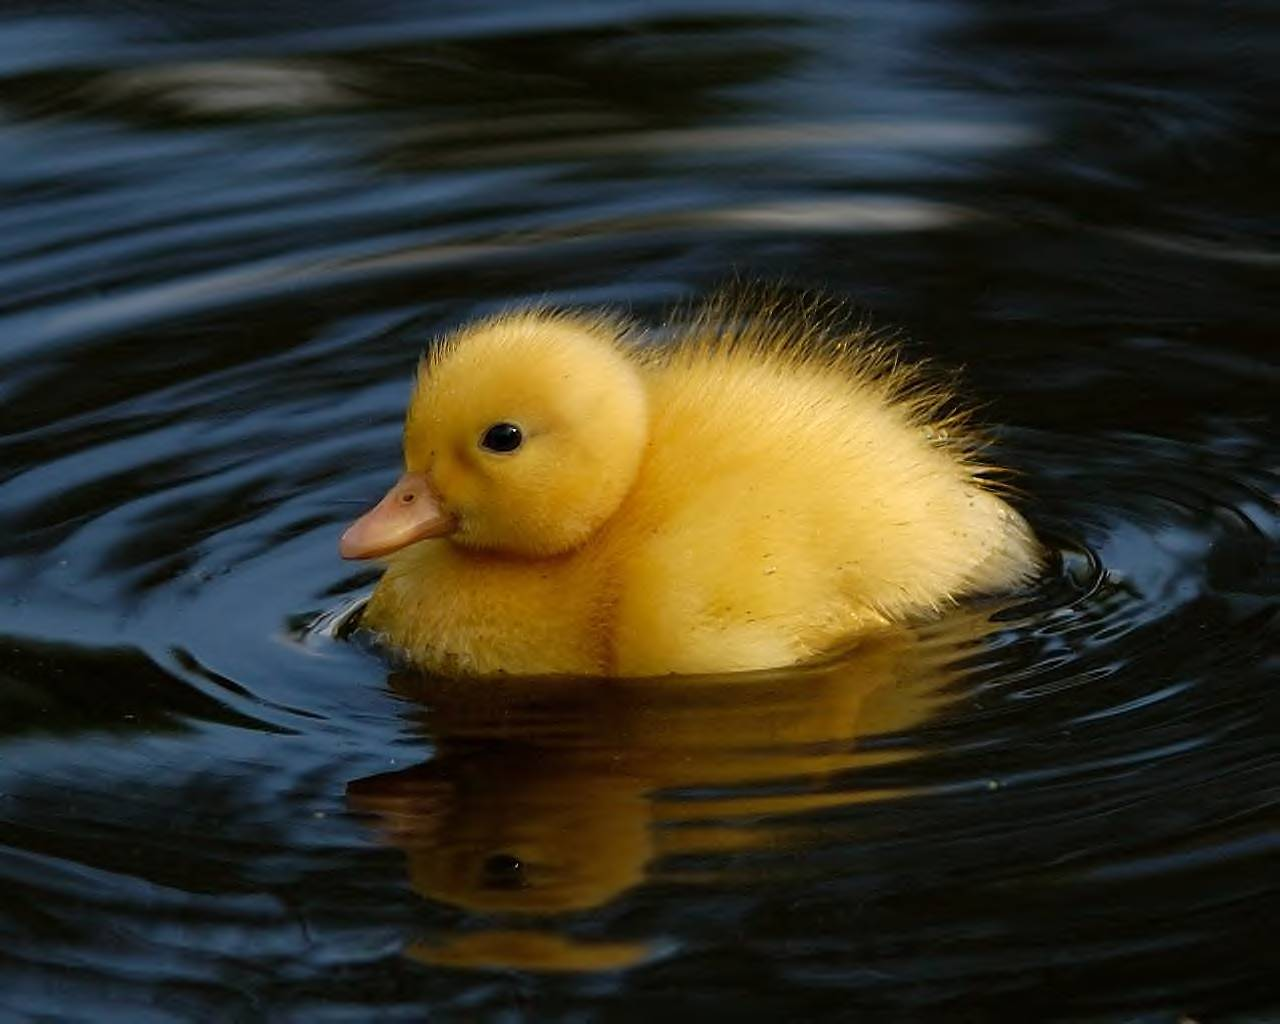
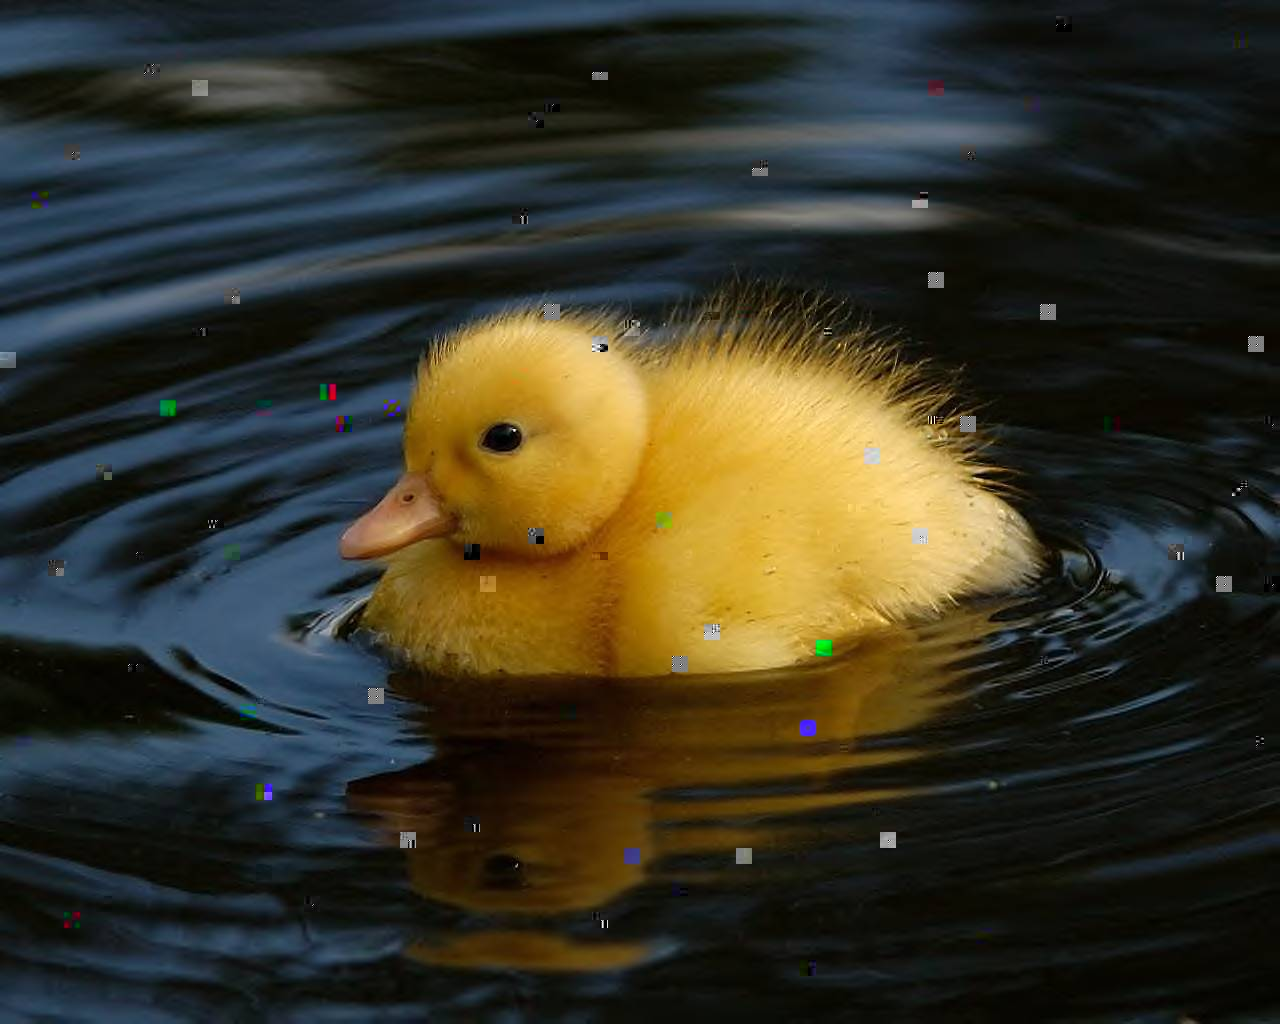
now I can corrupt multiple bytes at once :D

diff --git a/main.c b/main.c
@@ -3,54 +3,120 @@
 #include <string.h>
 #include <time.h>
 
-int	main()
-{
+typedef struct s_d {
+	char	filename_i[50];
+	char	filename_o[50];
 	FILE	*fileptr;
 	char	*buffer;
+	char	*buffer1;
 	char	*buffer_start;
+	char	*buffer1_start;
 	long	flen;
 	long	i;
-	long	rn;
-	char	rv;
+	long	rn;				//random number
+	long	rv;				//random value
+}	t_d;
 
-	i = 0;
-	srand(time(0));
-	fileptr = fopen("input.jpg", "rb");
-	fseek(fileptr, 0, SEEK_END);
-	flen = ftell(fileptr);
-	rewind(fileptr);
-	buffer = (char *)malloc((flen + 1) * sizeof(char));
-	if (!buffer)
+void	dinit(t_d *d)
+{
+	d->i = 0;
+}
+
+void	file_to_buffer(t_d *d)
+{
+	d->fileptr = fopen("input.jpg", "rb");
+	fseek(d->fileptr, 0, SEEK_END);
+	d->flen = ftell(d->fileptr);
+	rewind(d->fileptr);
+	d->buffer = (char *)malloc((d->flen + 1) * sizeof(char));
+	d->buffer1 = (char *)malloc((d->flen + 1) * sizeof(char));
+	if (!d->buffer || !d->buffer1)
 	{
 		printf("Allocation failed :(\n");
-		return (0);
+		return ;
 	}
-	buffer_start = buffer;
-	while (i < flen)
+	d->buffer_start = d->buffer;
+	d->buffer1_start = d->buffer1;
+	while (d->i < d->flen)
 	{
-		fread(buffer, 1, 1, fileptr);
-		buffer++;
-		i++;
+		fread(d->buffer, 1, 1, d->fileptr);
+		d->buffer++;
+		d->i++;
 	}
-	fclose(fileptr);
-	buffer = buffer_start;
+	fclose(d->fileptr);
+	d->buffer = d->buffer_start;
+}
 
-	rn = rand() % flen;
-	rv = rand() % 250;
-	fopen("output.jpg", "wb");
-	while (i != 0)
+void	buffer_to_file(t_d *d)
+{
+	d->fileptr = fopen("output.jpg", "wb");
+	while (d->i != 0)
 	{
-		if (i == rn)
-		{
-			fprintf(fileptr, "%c", rv);
-			buffer++;
-			i--;
-		}
-		fprintf(fileptr, "%c", *buffer);
-		buffer++;
-		i--;
+		fprintf(d->fileptr, "%c", *d->buffer1);
+		d->buffer1++;
+		d->i--;
 	}
-	fclose(fileptr);
-	free(buffer_start);
+	fclose(d->fileptr);
+}
+
+void	buffer_to_buffer(t_d *d)
+{
+	long	k;
+
+	k = d->i;
+	d->buffer1 = d->buffer1_start;
+	d->buffer = d->buffer_start;
+	d->rn = rand() % k;
+	d->rv = rand() % 250;
+	while (k != 0)
+	{
+		if (k == d->rn)
+		{
+			*d->buffer1 = (char)d->rv;
+			k--;
+			d->buffer++;
+			d->buffer1++;
+		}
+		*d->buffer1 = *d->buffer;
+		d->buffer++;
+		d->buffer1++;
+		k--;
+	}
+	d->buffer1 = d->buffer1_start;
+	d->buffer = d->buffer_start;
+	k = d->i;
+	while (k != 0)
+	{
+		*d->buffer = *d->buffer1;
+		d->buffer++;
+		d->buffer1++;
+		k--;
+	}
+	d->buffer1 = d->buffer1_start;
+	d->buffer = d->buffer_start;
+}
+
+void	free_buffers(t_d *d)
+{
+	free(d->buffer_start);
+	free(d->buffer1_start);
+}
+
+int	main()
+{
+	t_d	d;
+	int	index;
+
+	index = 100;
+	dinit(&d);
+	file_to_buffer(&d);
+	srand(time(0));
+	while (index)
+	{
+		buffer_to_buffer(&d);
+		index--;
+	}
+	buffer_to_file(&d);
+	free_buffers(&d);
 	return (0);
 }
